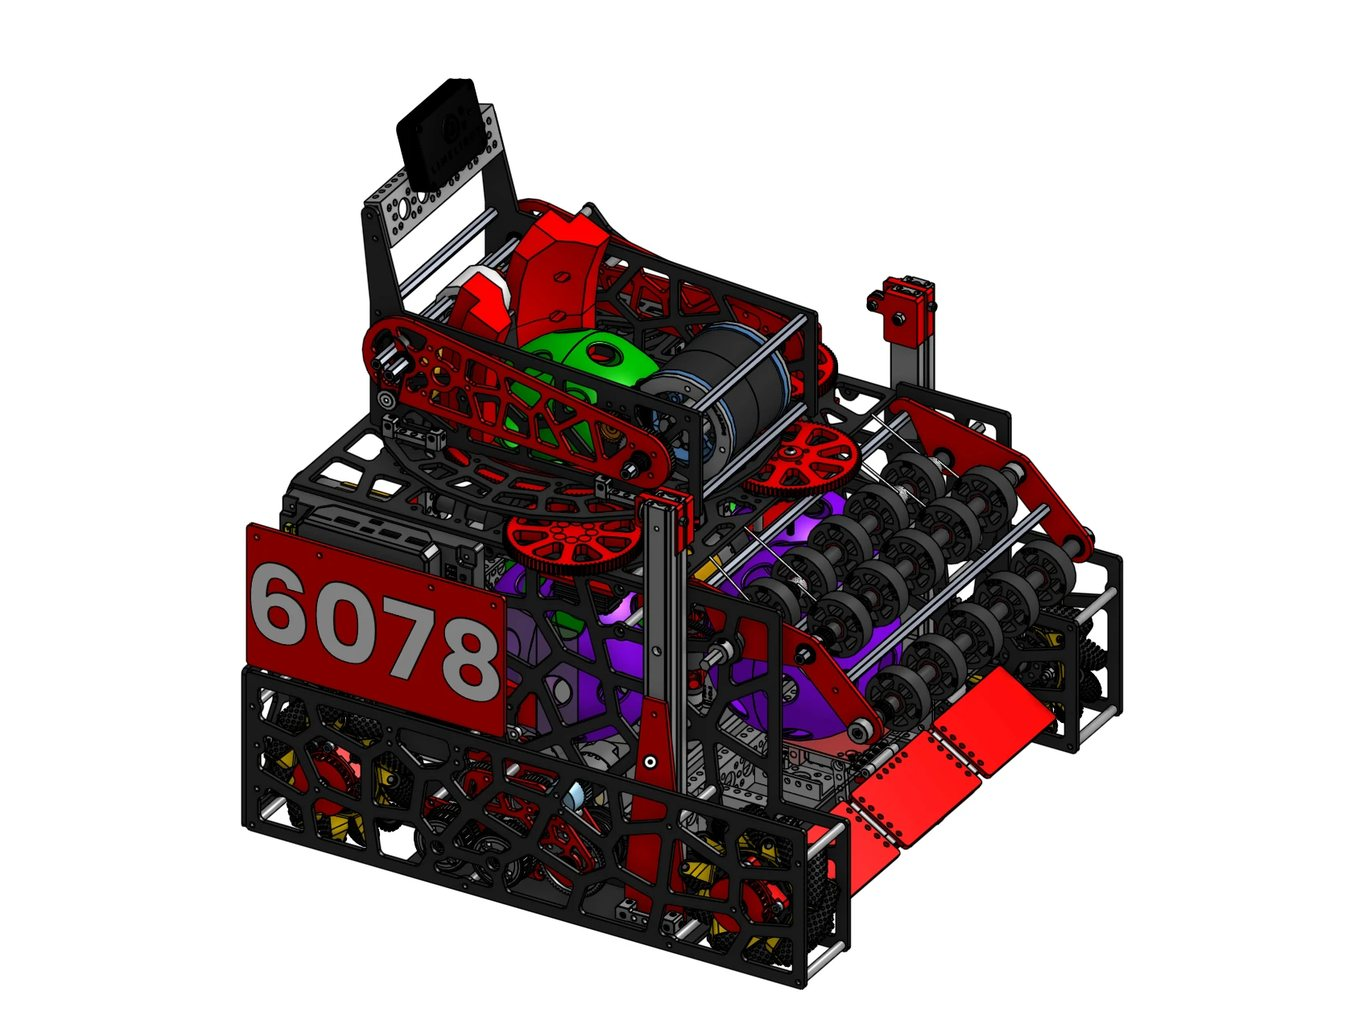
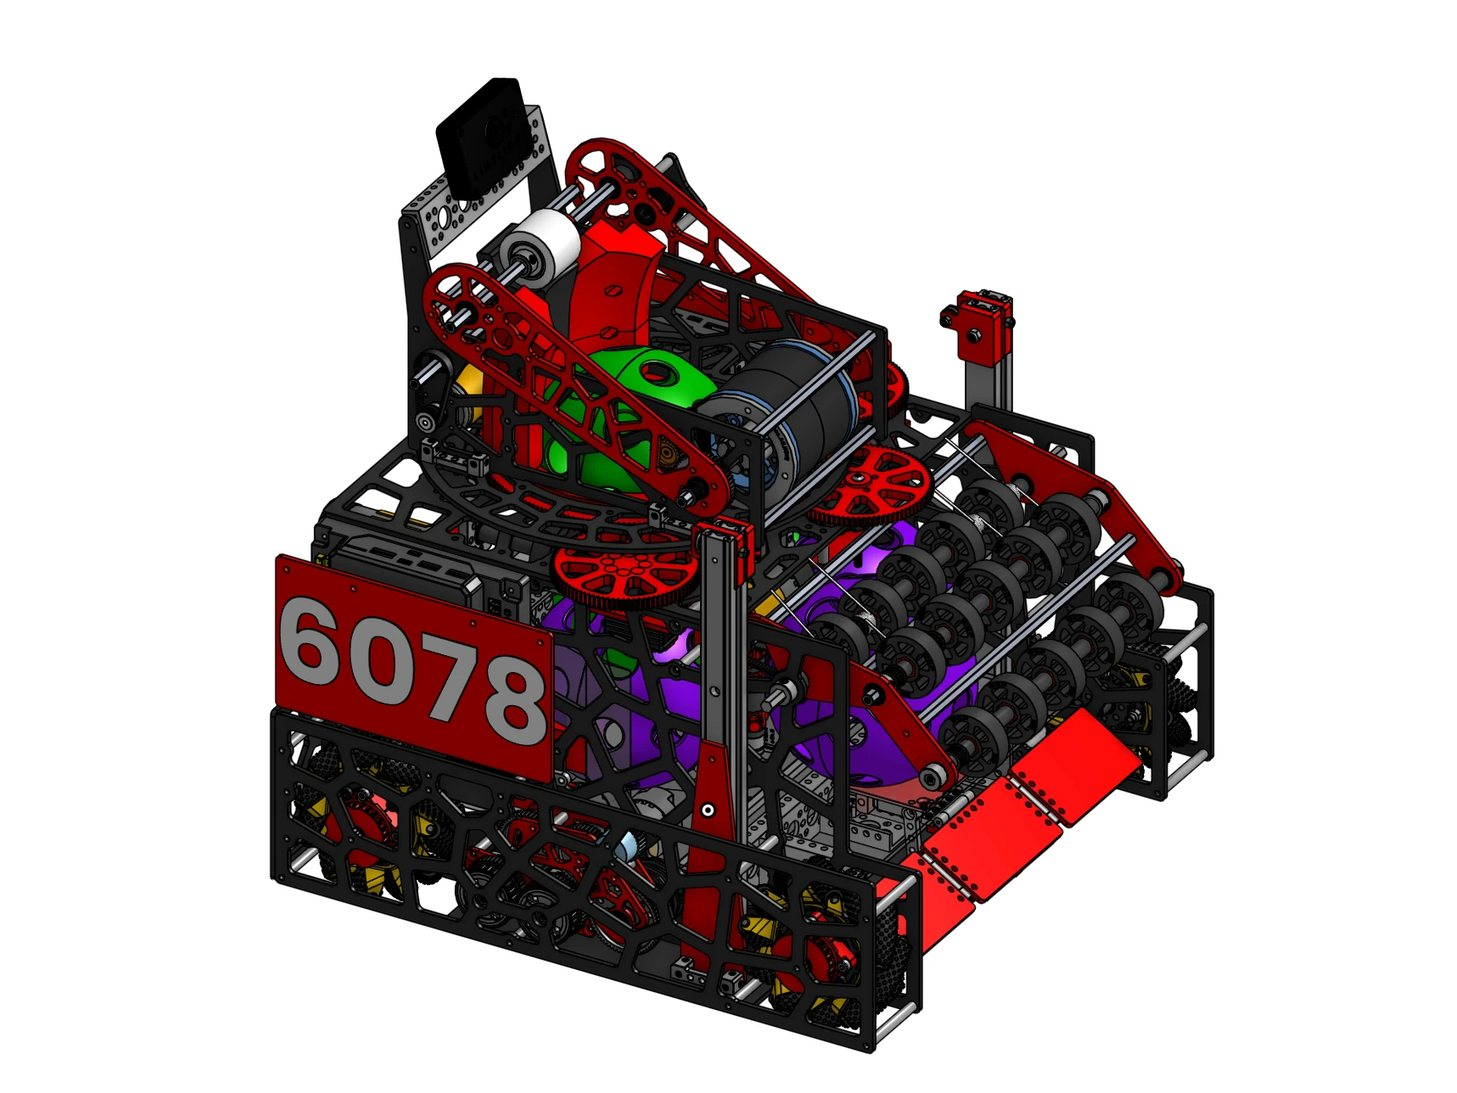
Update Rift render

Changed region(s): [[0.155, 0.061, 0.8369, 0.9764]]

diff --git a/index.html b/index.html
@@ -149,7 +149,7 @@
                 <i class="dim-arrow dim-arrow-r"></i>
               </div>
               <div class="photo robot-photo">
-                <img src="img/photos/robot-render.jpg" width="1355" height="1016"
+                <img src="img/photos/robot-render.jpg" width="1457" height="1093"
                      alt="Onshape render of Rift, the 2025–26 Cut the Red Wire robot">
                 <!-- Move balloons by editing --x / --y (percent of the image) to point at each part. -->
                                 <button class="balloon" type="button" style="--x:21%; --y:72%" data-item="1" aria-label="Part 1" aria-describedby="bom-1">1</button>
